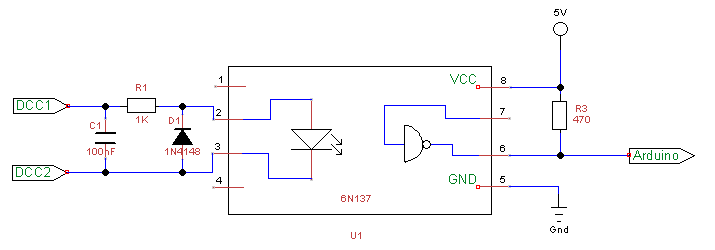
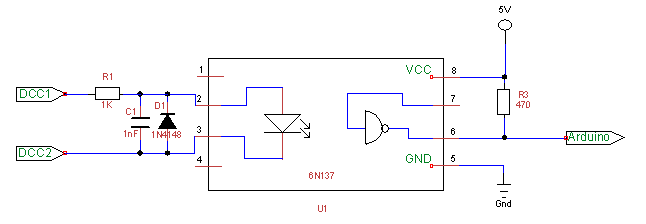
Update README
Move input capacitor in opto circuit.

diff --git a/README.md b/README.md
@@ -21,18 +21,15 @@ DCC++ or DCC++ EX system.  If it is used to monitor DCC signals, which are
 normally bipolar 12-18V signals, an optocoupler circuit will be required.
 
 Various circuits are discussed on the internet, but if you use a 6N137 optocoupler I 
-would recommend a 100nF capacitor across the DCC input to stabilise the DCC input signal.  
-Without this the opto-isolator may experience ringing,
-causing fleeting interrupts on the input (recorded as 'glitches' in the diagnostics).
-Commercial DCC controllers may include a similar capacitor, but the Arduino-based DCC++ and DCC++ EX 
-systems do not normally have this.
+would recommend a 1nF capacitor across the optocoupler input to stabilise the DCC input signal.  
+Without this the opto-isolator may experience ringing, causing fleeting interrupts on the input 
+(recorded as 'glitches' in the diagnostics).
 
 I use a pull-up resistor of 470 ohms (labelled R3 below) on the output pin 6, connected to 5V; 
-a larger resistor (even the Arduino's internal pull-up)
-will generally still work but will slow down the optocoupler.  Using the internal pull-up (~25Kohm), 
-deltas of 9us on the Arduino and 17us on the ESP32 are measured between half-bit lengths, 
-compared to <1us with a 470 (or 330) ohm pull-up.  This may be acceptable in a decoder with fairly loose 
-timing requirements, but it is not appropriate for a diagnostic tool.
+a larger resistor (even the Arduino's internal pull-up) will generally still work but may slow 
+down the optocoupler.  Using the internal pull-up (~25Kohm), the rise-time on the signal is some microseconds 
+in length, compared to around 200ns with a 470 (or 330) ohm pull-up.  This may be acceptable in a decoder where the
+timing requirements may be relaxed, but a faster response is preferred for a diagnostic tool.
 
 No connection is necessary to pin 7, although some versions of the circuit show a pull-up resistor here.
 
